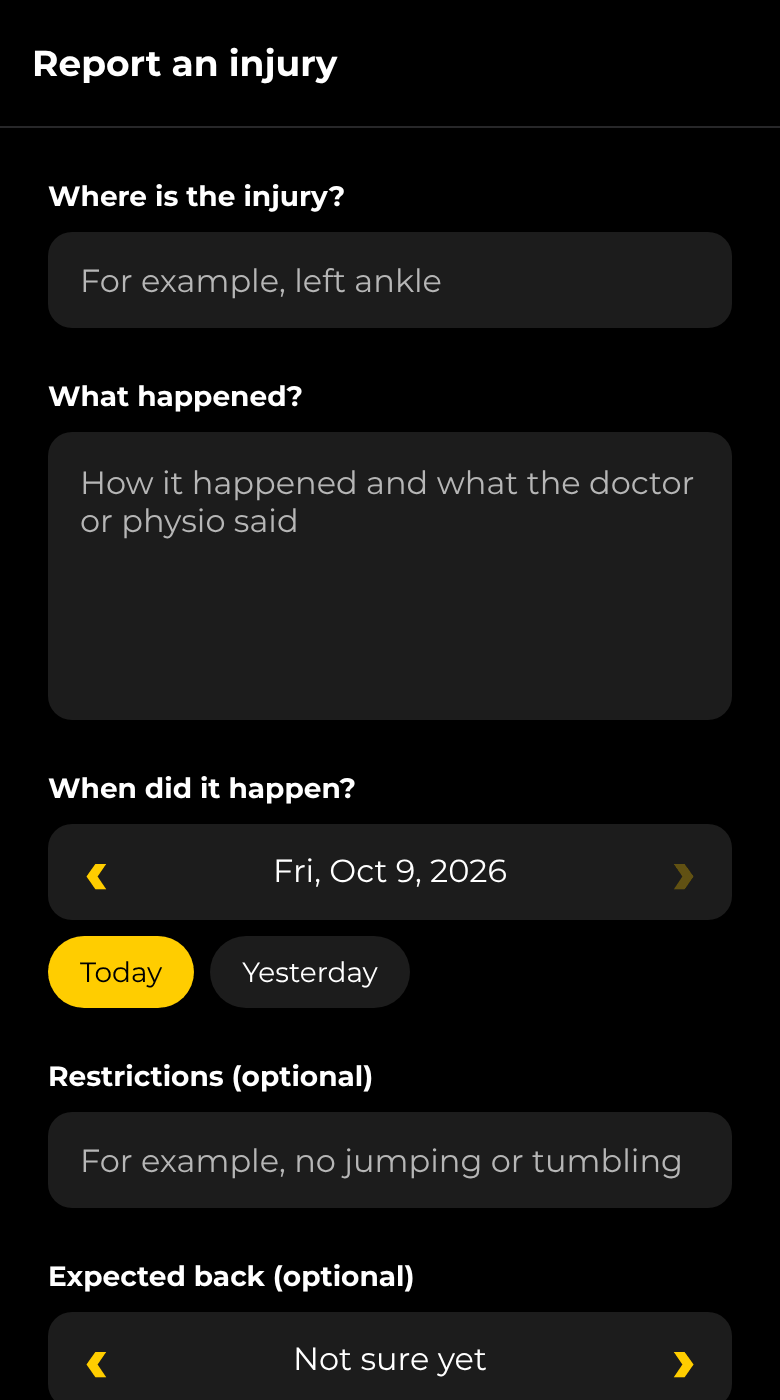
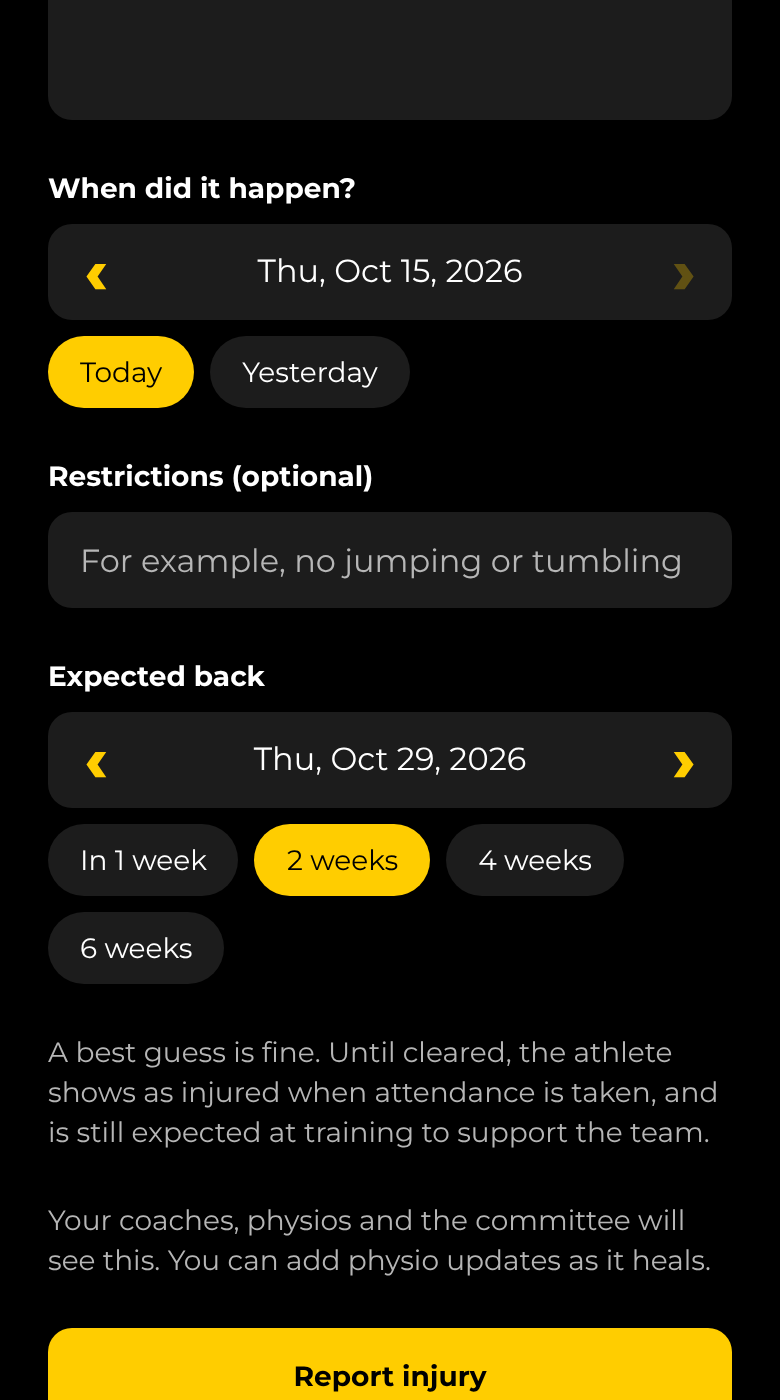
Show injured athletes on the register and require a return date
Injured athletes are still expected at training, so the attendance
register now shows "Injured, back <date>" beside them for whoever can
already see that athlete's injuries (not managers, and not coaches of an
under 18 without parental consent). Reporting an injury and adding a
physio update now need an expected return date.

Claude-Session: https://claude.ai/code/session_01Pmo5N1V6hSVd9Q1L88LoK5

diff --git a/src/lib/absences.ts b/src/lib/absences.ts
@@ -1,8 +1,10 @@
 import { useFocusEffect } from 'expo-router';
 import { useCallback, useEffect, useState } from 'react';
 
-import { formatDateString, toDateString } from '@/lib/injuries';
+import { useClub } from '@/lib/club';
+import { formatDateString, toDateString, useCanSeeInjuries } from '@/lib/injuries';
 import { supabase } from '@/lib/supabase';
+import type { Injury } from '@/lib/types';
 
 /** A reason for an absence, from the club's list in Administration. */
 export type AbsenceReason = {
@@ -94,26 +96,61 @@ export function absenceOn<T extends { from_day: string; to_day: string }>(
   return absences.find((a) => a.from_day <= day && day <= a.to_day);
 }
 
+/** Such as "Injured, back Sat, Oct 24, 2026", for a register. */
+export function injuredLabel(expectedReturn: string | null) {
+  return expectedReturn ? `Injured, back ${formatDateString(expectedReturn)}` : 'Injured';
+}
+
+/** Whether an injury was current on a day ("2026-10-09"). */
+function injuredOnDay(
+  i: Pick<Injury, 'injured_on' | 'status' | 'cleared_at'>,
+  day: string,
+) {
+  return (
+    i.injured_on <= day &&
+    (i.status !== 'cleared' || !i.cleared_at || toDateString(new Date(i.cleared_at)) > day)
+  );
+}
+
 /**
- * Athletes reported away on the day of a session, as register notes by
- * profile id. `teamId` null is a club event; pass `enabled` false until a
- * group is chosen.
+ * Register notes by profile id for the day of a session: athletes reported
+ * away, and athletes injured that day. Injured athletes still come to support
+ * the team, so they are marked like anyone else. Injuries show only to those
+ * who can already see them (not managers, and not coaches of an under 18
+ * whose parents haven't given consent). `teamId` null is a club event; pass
+ * `enabled` false until a group is chosen.
  */
 export function useAwayNotes(teamId: string | null, heldAt: string | null, enabled = true) {
+  const { features } = useClub();
+  const canSeeInjuries = useCanSeeInjuries() && features.injuries;
   const [away, setAway] = useState<Record<string, string>>({});
   const day = heldAt ? toDateString(new Date(heldAt)) : null;
   useEffect(() => {
     if (!enabled || !day) return;
     let current = true;
-    supabase.rpc('absences_on', { p_team_id: teamId, p_day: day }).then(({ data }) => {
+    Promise.all([
+      supabase.rpc('absences_on', { p_team_id: teamId, p_day: day }),
+      canSeeInjuries
+        ? supabase.rpc('visible_injuries', { p_include_cleared: true })
+        : Promise.resolve({ data: [] }),
+    ]).then(([absences, injuries]) => {
       if (!current) return;
       const notes: Record<string, string> = {};
-      for (const a of (data as AbsenceOnDay[] | null) ?? []) notes[a.profile_id] = awayLabel(a);
+      for (const i of (injuries.data as Injury[] | null) ?? []) {
+        if (injuredOnDay(i, day) && !notes[i.athlete_id]) {
+          notes[i.athlete_id] = injuredLabel(i.expected_return);
+        }
+      }
+      for (const a of (absences.data as AbsenceOnDay[] | null) ?? []) {
+        notes[a.profile_id] = notes[a.profile_id]
+          ? `${notes[a.profile_id]} · ${awayLabel(a)}`
+          : awayLabel(a);
+      }
       setAway(notes);
     });
     return () => {
       current = false;
     };
-  }, [teamId, day, enabled]);
+  }, [teamId, day, enabled, canSeeInjuries]);
   return enabled ? away : {};
 }

diff --git a/src/app/injuries/new.tsx b/src/app/injuries/new.tsx
@@ -50,6 +50,10 @@ export default function NewInjuryScreen() {
       setError('Say where the injury is and what happened.');
       return;
     }
+    if (!expectedReturn) {
+      setError('Choose when you expect to be back. A physio can change it later.');
+      return;
+    }
     setSaving(true);
     setError(null);
     const { data, error: saveError } = await supabase.rpc('report_injury', {
@@ -125,12 +129,15 @@ export default function NewInjuryScreen() {
         maxLength={1000}
       />
       <DateField
-        label="Expected back (optional)"
+        label="Expected back"
         value={expectedReturn}
         onChange={setExpectedReturn}
         quickPicks={returnQuickPicks}
-        optional
       />
+      <ThemedText type="small" themeColor="textSecondary">
+        A best guess is fine. Until cleared, the athlete shows as injured when attendance is taken,
+        and is still expected at training to support the team.
+      </ThemedText>
 
       <ThemedText type="small" themeColor="textSecondary">
         {profile && isMinor(profile.date_of_birth, profile.under_17)

diff --git a/src/components/date-field.tsx b/src/components/date-field.tsx
@@ -8,7 +8,8 @@ import { formatDateString, parseDateString, toDateString } from '@/lib/injuries'
 
 /**
  * Picks a calendar day with back and forward arrows, plus a few quick choices.
- * `value` is a "2026-10-07" style date, or null when `optional` and unset.
+ * `value` is a "2026-10-07" style date, or null when unset. `optional` adds a
+ * "Not sure" choice.
  */
 export function DateField({
   label,
@@ -50,7 +51,7 @@ export function DateField({
       <View style={[styles.row, { backgroundColor: theme.backgroundElement }]}>
         <Arrow label="Day before" symbol="‹" onPress={() => shift(-1)} />
         <ThemedText style={styles.value}>
-          {value ? formatDateString(value) : 'Not sure yet'}
+          {value ? formatDateString(value) : optional ? 'Not sure yet' : 'Choose a day'}
         </ThemedText>
         <Arrow
           label="Day after"

diff --git a/src/app/injuries/[id].tsx b/src/app/injuries/[id].tsx
@@ -324,6 +324,10 @@ function ActionForm({
       );
       return;
     }
+    if (action === 'update' && !expectedReturn) {
+      setError('Choose when they’re expected back.');
+      return;
+    }
     if (action === 'clearance' && !attachment) {
       setError('Attach proof of clearance, such as a letter from the physio.');
       return;
@@ -397,7 +401,6 @@ function ActionForm({
             value={expectedReturn}
             onChange={setExpectedReturn}
             quickPicks={returnQuickPicks}
-            optional
           />
         </>
       ) : null}

diff --git a/src/components/attendance-register.tsx b/src/components/attendance-register.tsx
@@ -45,7 +45,7 @@ export function AttendanceRegister({
               {mark.full_name ?? 'Unnamed athlete'}
             </ThemedText>
             {away[mark.profile_id] ? (
-              <ThemedText type="small" themeColor="textSecondary" numberOfLines={2}>
+              <ThemedText type="small" themeColor="textSecondary" numberOfLines={3}>
                 {away[mark.profile_id]}
               </ThemedText>
             ) : null}

diff --git a/docs/user-guide.md b/docs/user-guide.md
@@ -537,10 +537,13 @@ read it. Tap **Remove** on your own comment to take it down.
 
 1. Tap **Injuries**, then **Report an injury**.
 2. Say where the injury is, what happened and when.
-3. Add any restrictions (for example "no jumping") and when you expect to be back, if you know.
+3. Add any restrictions (for example "no jumping") and choose when you expect to be back. A best
+   guess is fine; a physio update can change it.
 4. Tap **Report injury**.
 
-Your coaches and the committee can see it straight away.
+Your coaches and the committee can see it straight away. An injury isn't an absence: injured
+athletes are still expected at training to support the team. Until you're cleared, coaches see
+**Injured** and your expected return date next to your name when they take attendance.
 
 <img src="user-guide/injury-report-new.png" width="210" alt="Report an injury form">
 
@@ -549,7 +552,7 @@ Your coaches and the committee can see it straight away.
 Open the injury to see its details and history. While you're injured:
 
 - **Add physio update** records what the physio said, any change to restrictions or your expected
-  return date, and optionally a physio report (up to 10 MB). Adults can attach a PDF or a photo.
+  return date (which is required), and optionally a physio report (up to 10 MB). Adults can attach a PDF or a photo.
   If you're under 18, attach the letter or report as a PDF or a photo of the letter, and switch
   on **This is a photo of the letter** before sending a photo. Never send a photo of the injury
   itself (see [Injury documents and photos](#injury-documents-and-photos)).
@@ -953,7 +956,10 @@ recorded and shown to the athlete, their parents or guardians and admins.
    after it ends), its name is filled in for you; other events from today are offered as chips.
 4. Mark each athlete **Present** or **Absent**, or tap **Mark the rest present**. Athletes whose
    absence was reported for that day show **Away** under their name, with the reason and any
-   details.
+   details. Injured athletes show **Injured** and when they're expected back, if you can see their
+   injuries (managers don't, and nor do coaches of an athlete under 18 whose parents haven't given
+   consent for injuries). Injured athletes are still expected to come and support the team, so mark
+   them like anyone else.
 5. Tap **Save attendance**.
 
 If attendance was already taken for the same group in the last 3 hours, a warning shows who took
@@ -961,6 +967,7 @@ it, in case it's a duplicate. You can open that record, or carry on if it really
 session.
 
 <img src="user-guide/take-attendance.png" width="210" alt="Taking attendance">
+<img src="user-guide/take-attendance-notes.png" width="210" alt="The register with an injured athlete and two reported absences">
 
 ### Attendance records
 
@@ -1988,7 +1995,7 @@ once saved, only replaced or removed, and anyone who gets it wrong five times in
 | Messages                | The people they were sent to, the sender, and admins. Guardians of athletes under 18 get a copy of every message sent to their athlete, and of every message their athlete sends as a captain. Guests don't get messages; physios get messages sent to the Physio role and to their squads and teams, and whole-club messages only if an admin turns that on. |
 | Read receipts           | The sender and admins.                                                                                                      |
 | Daily check-in answers and notes | The athlete, their guardians and their coaches. For an athlete under 18, their coaches only once a parent or guardian consents. The committee, physios and admins see only group averages, hidden below 5 check-ins or when two groups differ by fewer than 5. |
-| Injuries and documents  | For an athlete under 18 whose parents haven't given consent for injuries: only the athlete, their guardians and admins. Otherwise the athlete, their guardians, their coaches, the physios who look after them (the Head Physio, physios in their squad or team, and physios in no squad or team), the committee and admins. Managers don't see injuries. Only the committee member or admin accepting a clearance can share its documents, while it waits for them; everyone else views them in the app. |
+| Injuries and documents  | For an athlete under 18 whose parents haven't given consent for injuries: only the athlete, their guardians and admins. Otherwise the athlete, their guardians, their coaches, the physios who look after them (the Head Physio, physios in their squad or team, and physios in no squad or team), the committee and admins. Managers don't see injuries. The attendance register shows **Injured** and the expected return date only to the same people. Only the committee member or admin accepting a clearance can share its documents, while it waits for them; everyone else views them in the app. |
 | Who opened injury documents | The athlete, their guardians and admins: every view and share, by whom, their role and when, and each photo consent. |
 | Who has viewed a child's records | For an athlete under 18: their verified parents or guardians (until the athlete turns 18) and admins. Lists every time someone other than the athlete or their guardians opened the athlete's injuries, injury documents, check-ins, game goals or member record. Opening a child's records is recorded whoever you are; nobody can switch it off or remove entries. |
 | Consents for a child    | The athlete, their parents or guardians and admins, with every consent given and withdrawn. Only a verified parent or guardian can give or withdraw one. |
